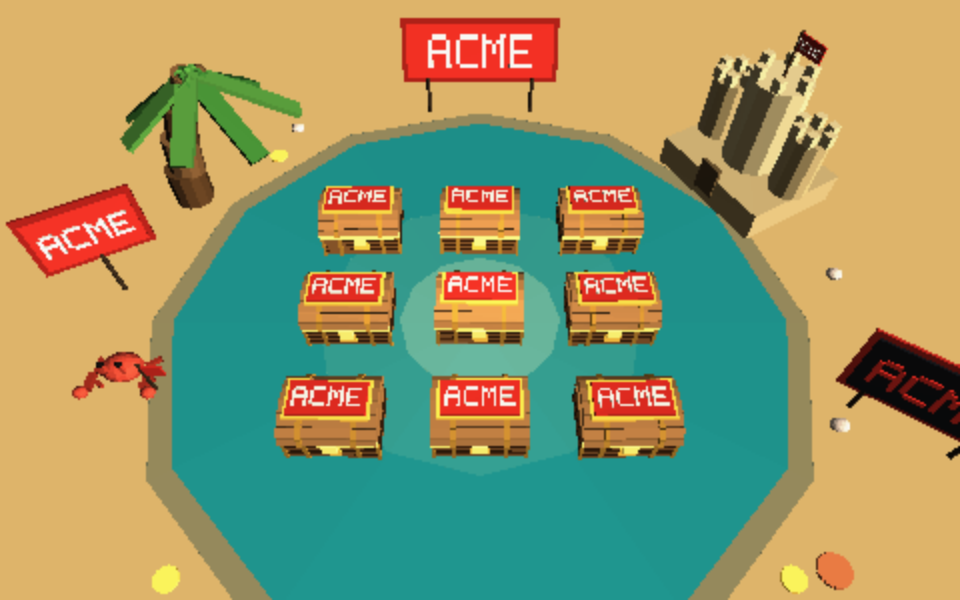
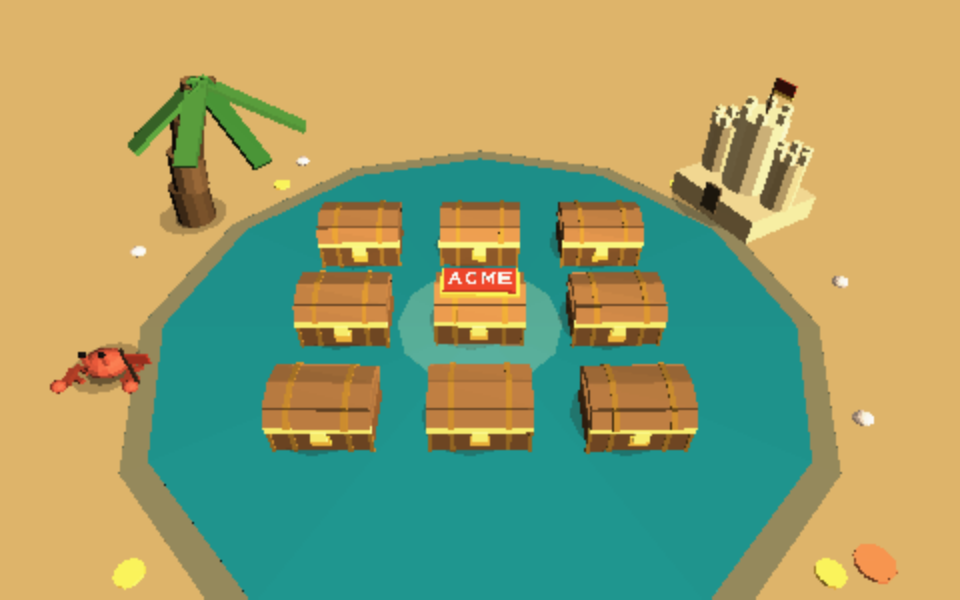
casino-games(treasure-chest-pick): reset the convergence reference + re-shoot the champion
The campaign target is replaced with the human-supplied CLEAN diorama: warm tan
sand to the frame edge, a rounded turquoise pool with a hex-honeycomb surface,
nine chests staged 3x3 on the water, margin props (palm with a long soft shadow,
red crab, sand castle with a red pennant, starfish, shells, pebbles) — and the
brand appearing EXACTLY ONCE, as a red nameplate above the CENTRE CHEST only.
The retired reference was the fully branded diorama (ribbon banner + pennants +
signboard + a label on every chest), so the branding axis inverts: the target now
wants restraint, which is the direction the app already took on main.

The champion is RE-SHOT rather than carried over. The old image was rendered at
64b33ab6; main has since advanced to dc16f3b2 (hex-honeycomb stylized water,
centre chest no longer permanently highlighted, billboard removed, "orb" ring
fix). Scoring a stale image against a new reference would make every number a
fiction. The capture recipe is unchanged (`chests-ready`: seed 470573198,
shot=90, canvas2d, frozen gate), so before/after comparability holds from here.

The scorecard is banner-flagged STALE with next_attack_axis = "recalibrate" —
the next convergence CRITIC pass owes a fresh harsh calibration of all twelve
axes. Ledger iteration 4 records the reset; capture.md now documents the new
target and the `npm --prefix packages/axiom-web-engine run build` prerequisite
(the app imports the engine's built dist, so a synced worktree builds red until
[…]

diff --git a/apps/casino-games/visual_targets/treasure-chest-pick/capture.md b/apps/casino-games/visual_targets/treasure-chest-pick/capture.md
@@ -5,21 +5,30 @@ app's own capture agent (`apps/casino-games/web/browser/agent_capture.py`, a Pla
 driver over the shell's `window.__casino` handle). There is no `axiom-shot` path — Casino
 Games is a pure-TypeScript app on `@axiom/web-engine`.
 
-**Reference:** the branded beach diorama (`reference.png`) — the treasure hunt dressed in
-one white-label brand: "ACME" red across a top ribbon banner, a left pennant, a right
-signboard, the sandcastle pennant, the crab's little flag, and a label on every chest. The
-brand (name + color scheme) is **configurable** — it lives in the game's `gameSpecific.brand`
-config (`presentation/branding/brand.ts`, `DEFAULT_BRAND` = the ACME livery) and is editable
-in the SET UP panel ("Brand livery"). The lettering is real welded geometry (there are no
-textures on `@axiom/web-engine`): `presentation/branding/glyphs.ts` is a 5×7 box-run font and
-`label.ts` stamps it onto a surface through the same transform frame the surface rides — so a
-chest's label squashes, grows, tilts and spirals **welded to the chest**, and long names
-shrink uniformly to fit. The champion is captured with the default ACME brand, so it wears the
-same livery as the reference.
+**Reference:** the clean beach diorama (`reference.png`, 1614×974, installed 2026-07-24) — a
+warm tan sand ground filling the frame edge-to-edge, a rounded turquoise pool with a
+hex-honeycomb water surface and a paler shallow rim, nine gilded wooden chests staged 3×3 on
+the water, and staged in the margins a low-poly palm tree (with a long soft shadow), a red
+crab, a sand castle with a red pennant, a starfish, seashells and a few small pebbles. The
+brand appears **exactly once**: a red rounded nameplate reading "ACME" hovering just above the
+**centre chest only** — no ribbon banner, no pennants, no signboard, no per-chest labels.
+
+This replaced the earlier *fully branded* reference (banner + pennants + signboard + a label on
+every chest); see `ledger.toml` iteration 4. The brand (name + color scheme) is still
+**configurable** — it lives in the game's `gameSpecific.brand` config
+(`presentation/branding/brand.ts`, `DEFAULT_BRAND` = the ACME livery) and is editable in the
+SET UP panel ("Brand livery"). The lettering is real welded geometry (there are no textures on
+`@axiom/web-engine`): `presentation/branding/glyphs.ts` is a box-run font and `label.ts` stamps
+it onto a surface through the same transform frame the surface rides. The champion is captured
+with the default ACME brand, so it wears the same livery as the reference.
 
 ## Reproduce the champion
 
 ```sh
+# 0. once per fresh checkout/worktree: the app imports @axiom/web-engine's BUILT dist,
+#    so a stale dist fails the tsgo build ("has no exported member ...").
+npm --prefix packages/axiom-web-engine run build
+
 # 1. serve the app (the champion worktree, when re-rendering a convergence round)
 uv run scripts/localhost_servers.py start-app casino-games --port 8087
 
@@ -29,6 +38,9 @@ uv run apps/casino-games/web/browser/agent_capture.py \
     --url http://localhost:8087/ \
     --out apps/casino-games/visual_targets/treasure-chest-pick/candidate.png
 ```
+
+`--url` must point at whatever port the manager actually gave you (`localhost_servers.py url
+casino-games`) — it auto-bumps past a taken port.
 
 The preset expands to the boot URL
 `?game=treasure-chest-pick&seed=470573198&shot=90&backend=canvas2d`, waits for the
